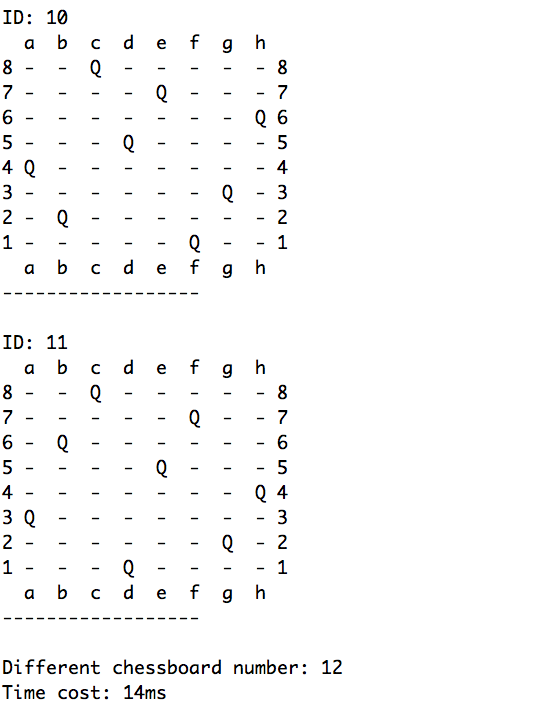
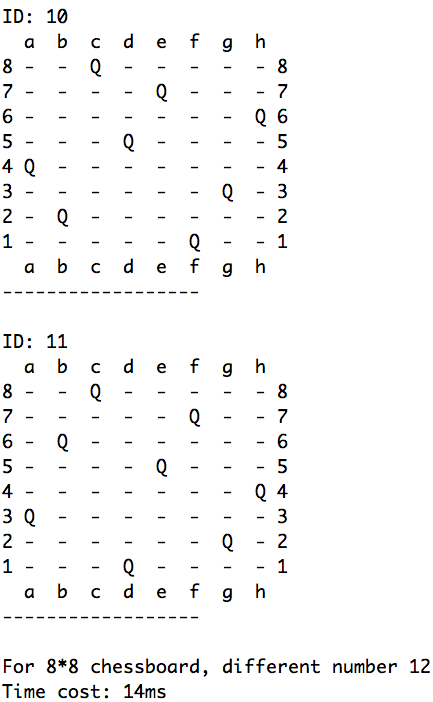
add doc

diff --git a/README.md b/README.md
@@ -3,7 +3,7 @@ Solve eight queens puzzle with parallel algorithm
 
 ## Requirements
 
-Before building this project, make sure the folloing requirements are correctly installed in you running environment. It is recommended to install the lastest version.
+Before building this project, make sure the following requirements are correctly installed in you running environment. It is recommended to install the lastest version.
 
 * Java JDK >= 1.8.0
 * Maven >= 3.3.0
@@ -28,9 +28,17 @@ To display the solution of **Eight queens puzzle**, run
 
 > ./eight-queens-demo.sh
 
-You will see 12 differen solutions.
+You will see 12 different solutions.
 
 ![](./figure/eight-queens-demo.png)
+
+### Different sulotion
+
+To find out how many different solutions for a given N*N chessboard, run
+
+> ./chessboard-diff.sh
+
+![](./figure/chessboard-diff.png)
 
 ### Compare the efficiency of serial and parallel execution
 
@@ -44,7 +52,7 @@ You will see the number of the solution of **N queens puzzle**(in this project, 
 
 ## Documentation
 
-
+See [report]()
 
 ## References
 
